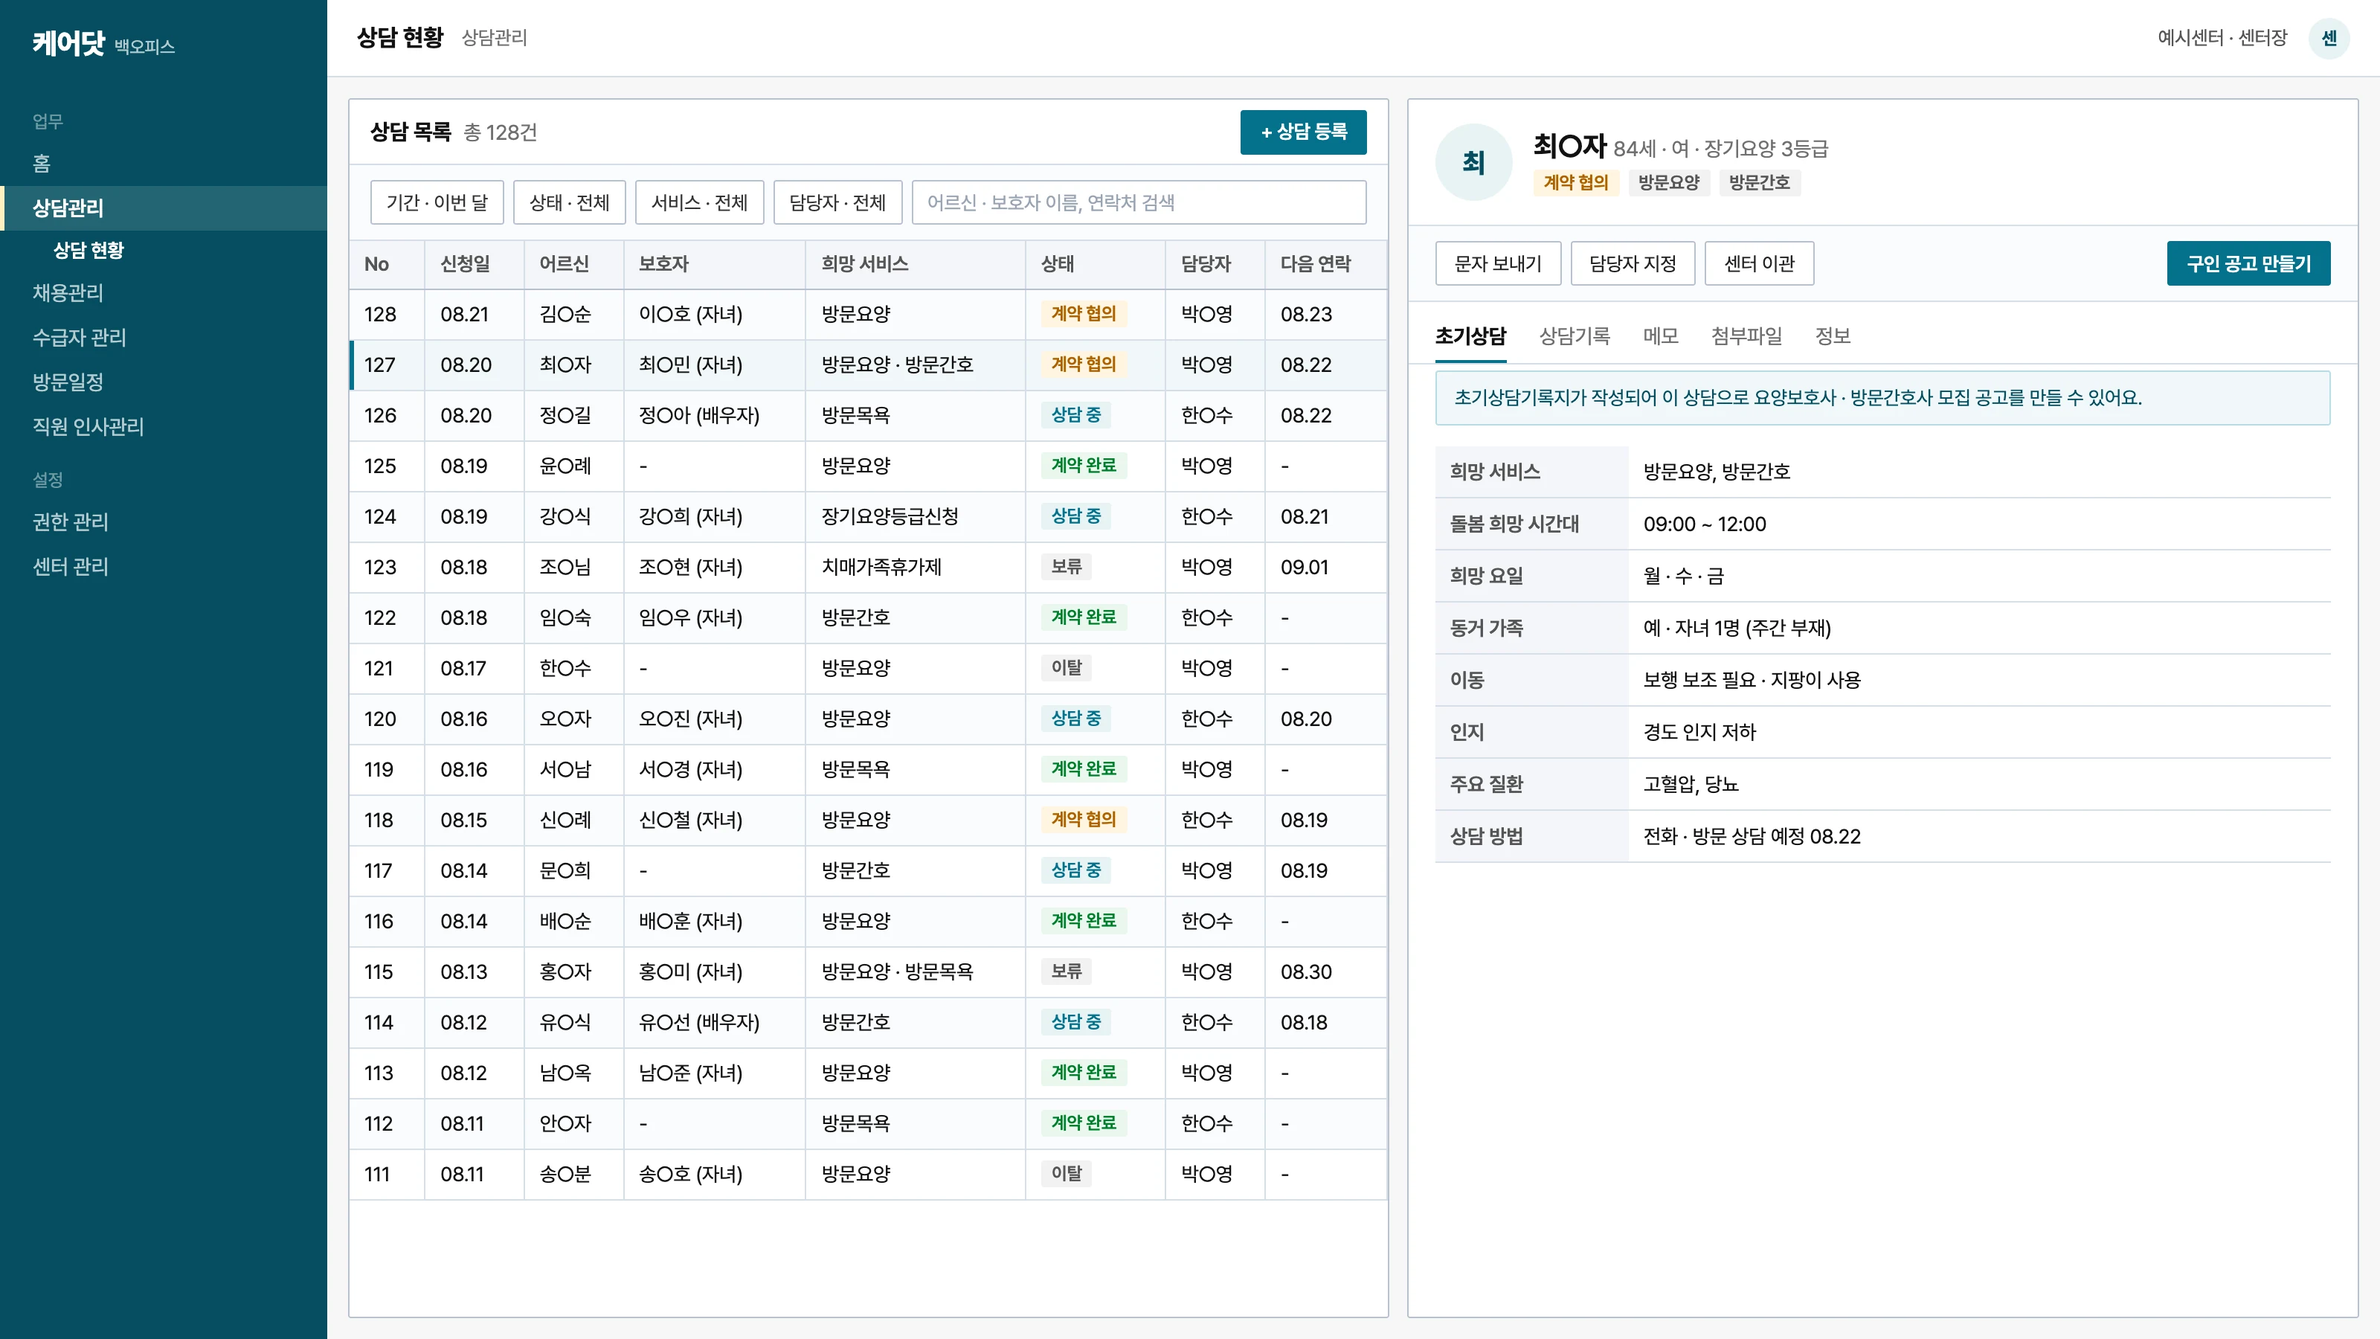
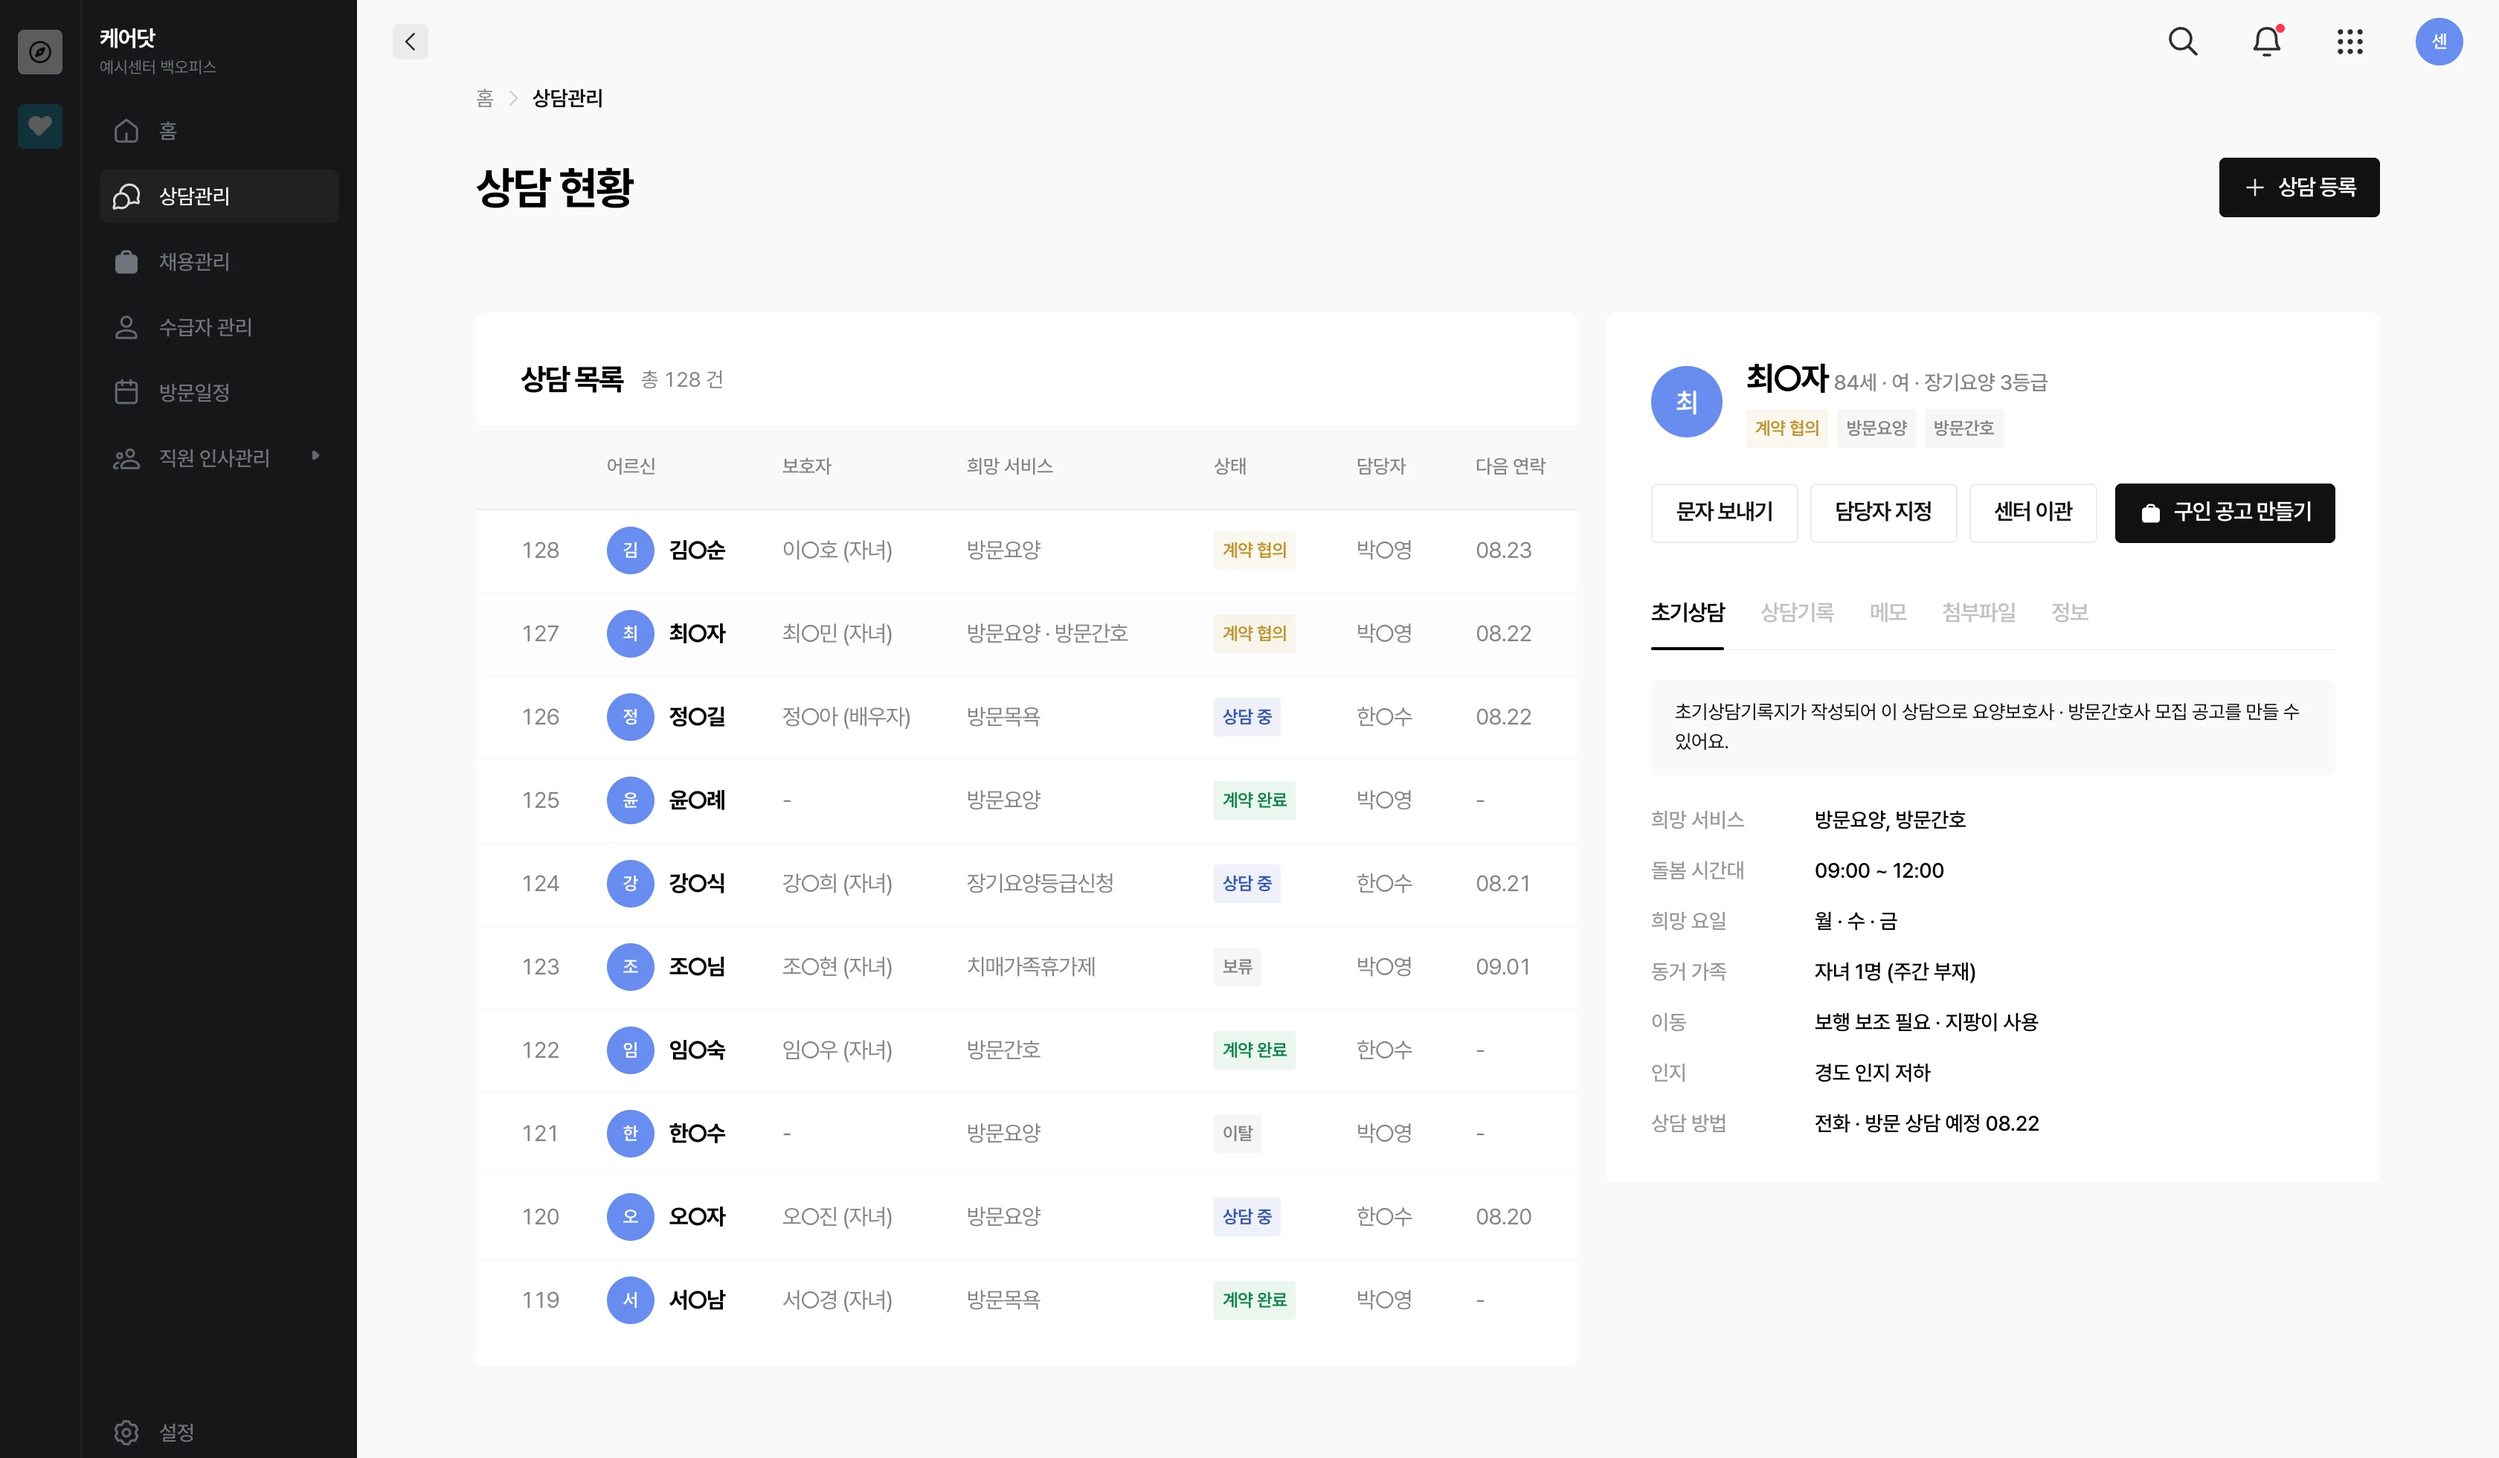
청담원 — 재현 화면 두 장을 404 디자인 시스템(워크스페이스 셸 · 표 · 배지 · 요약 카드)으로 다시 그림

diff --git a/resources/data/projects.php b/resources/data/projects.php
@@ -619,7 +619,7 @@ return [
                             ['임직원 라운지', '공지 · 자료', ['공지·일정', '자료실', '영상 교육'], '본사 공지와 교육 자료'],
                         ]]],
                         ['label' => null, 'text' => '메뉴 순서는 일의 순서를 따랐습니다. 상담에서 계약이 되면 그 어르신을 돌볼 요양보호사를 뽑아야 해서, 상담관리 바로 아래에 채용관리를 두고 상담 상세에서 바로 구인 공고를 만들 수 있게 했습니다. 같은 내용을 적는 곳이 두 군데면 현업이 매번 어디에 적어야 하는지 고르게 되어, 수급자 서류는 따로 메뉴를 두지 않고 수급자 상세의 탭으로 모았습니다.'],
-                        ['image' => ['src' => 'images/projects/cdw-consult-screen.webp', 'width' => 3200, 'height' => 1800, 'alt' => '상담 현황 재현 화면. 왼쪽은 신청일 · 어르신 · 보호자 · 희망 서비스 · 상태 · 담당자 · 다음 연락 열의 상담 목록, 오른쪽은 선택한 상담의 상세. 상세 위에 문자 보내기 · 담당자 지정 · 센터 이관 버튼과 구인 공고 만들기 버튼, 아래에 초기상담기록지(희망 서비스, 돌봄 희망 시간대, 희망 요일 등)가 있다. 이름은 가려진 예시 데이터.', 'caption' => '상담 목록과 상세를 한 화면에서, 상세에서 바로 구인 공고로 (재현 화면 · 예시 데이터)']],
+                        ['image' => ['src' => 'images/projects/cdw-consult-screen.webp', 'width' => 3360, 'height' => 1960, 'alt' => '상담 현황 재현 화면. 왼쪽은 신청일 · 어르신 · 보호자 · 희망 서비스 · 상태 · 담당자 · 다음 연락 열의 상담 목록, 오른쪽은 선택한 상담의 상세. 상세 위에 문자 보내기 · 담당자 지정 · 센터 이관 버튼과 구인 공고 만들기 버튼, 아래에 초기상담기록지(희망 서비스, 돌봄 희망 시간대, 희망 요일 등)가 있다. 이름은 가려진 예시 데이터.', 'caption' => '상담 목록과 상세를 한 화면에서, 상세에서 바로 구인 공고로 (재현 화면 · 예시 데이터)']],
                         ['label' => null, 'text' => '같은 백오피스라도 쓰는 사람마다 필요한 화면이 달랐습니다. 요양보호사와 간호사 같은 현장직에게는 내 일정과 내 프로필만 보이게 했고, 센터 개설을 준비하는 예비 센터장에게는 개설 진행과 서류함만 보이게 했습니다. 시니어와 보호자도 쓰는 서비스라, 화면의 문장은 쉬운 말로 쓰는 것을 기준으로 삼았습니다.'],
                         ['label' => null, 'text' => '계정과 권한도 의사결정 기록으로 정했습니다. 논의는 메신저에서 하고, 결정은 배경과 근거, 검토한 대안까지 위키에 한 장씩 적었습니다. 권한은 본사 관리자, 센터장, 사회복지사와 케어매니저, 직원의 4단계로 나눴고, 한 사람이 여러 역할을 가져도 계정은 하나로 두었습니다. 구직자가 채용되면 새 계정을 만들지 않고 같은 계정의 역할만 직원으로 올리게 했고, 센터장 한 명이 여러 센터를 맡을 수 있게 했습니다.'],
                         ['label' => null, 'text' => '메뉴와 화면 접근은 같은 기준으로 판정하게 했습니다. 홈 화면을 좌측 메뉴 틀로 옮기던 중 권한 테스트에서 센터장에게 본사 전용 메뉴가 보이는 것이 잡혔습니다. 누르면 막히지만 갈 수 없는 곳이 메뉴에 남아 있던 것이라, 메뉴도 화면과 같은 판정을 따르게 하고 이 경우를 테스트로 고정했습니다. 센터 계정은 어느 화면에서든 자기 센터만 보는 것을 원칙으로 두었습니다.'],
@@ -644,7 +644,7 @@ return [
                         ['label' => null, 'text' => '공단 연동은 8월 중순부터 백엔드 개발자와 역할을 나눠 붙였습니다. API 연결은 백엔드 개발자가, 인증서 등록과 공단 데이터를 보여 주는 화면은 제가 맡았습니다. 공단 장기요양과 희망이음 API 12종이 연결돼, 조회뿐 아니라 직원 등록, 자격 등록, 입사 · 퇴사 신고까지 희망이음으로 실제 신고되는 것을 확인했습니다.'],
                         ['label' => null, 'text' => '화면은 공단 응답과 실제 공단 화면을 기준으로 다시 짰습니다. 처음 연동했을 때는 응답에 오는 계약 내용과 계약자 정보를 버리고 있어서, 공단 응답에 맞춰 수급자 데이터 구조를 다시 정렬하고 수급자 상세도 공단 화면처럼 케어플랜, 담당 직원, 급여제공계획서 탭으로 넓혔습니다. 공단은 코드표를 따로 주지 않았습니다. 코드 뜻을 추측해 붙이면 틀린 뜻이 그대로 굳기 때문에, 같은 응답에 한글명이 함께 오는 조회를 불러 코드와 이름의 짝을 실데이터로 확인했습니다. 조회마다 요금이 붙어서 이 확인은 사람이 필요할 때만 돌게 했습니다.'],
                         ['label' => null, 'text' => '연동에서 부딪힌 문제는 화면 밖에도 있었습니다. 신고 요청이 성공으로 돌아왔는데 실제로는 아무 일도 일어나지 않은 경우가 있어, 성공 여부는 응답의 성공 표시가 아니라 안쪽의 처리 메시지로 판단하게 했습니다. 조회가 0건으로 오면 센터 직원이 전부 사라진 것처럼 보일 수 있어 0건 응답은 삭제로 읽지 않게 막았고, 응답에 섞여 오는 주민등록번호는 저장하기 전에 지웠습니다. 등록과 신고가 다른 일이라는 점도 화면에 드러냈습니다. 공단에 신고되지 않은 직원은 급여 산정에 잡히지 않아서, 목록에 공단 미신고 표시를 붙였습니다.'],
-                        ['image' => ['src' => 'images/projects/cdw-staff-screen.webp', 'width' => 3200, 'height' => 1800, 'alt' => '직원 정보 관리 재현 화면. 위에 공단 · 희망이음 데이터를 가져오는 중이라는 띠, 재직 · 공단 신고 완료 · 공단 미신고 · 자격 만료 임박 요약 카드, 아래 직원 목록의 공단 신고 열에 신고 완료와 공단 미신고 표시가 있다. 이름은 가려진 예시 데이터.', 'caption' => '등록과 신고를 나눠 보여 주는 직원 목록 (재현 화면 · 예시 데이터)']],
+                        ['image' => ['src' => 'images/projects/cdw-staff-screen.webp', 'width' => 3360, 'height' => 2120, 'alt' => '직원 정보 관리 재현 화면. 위에 공단 · 희망이음 데이터를 가져오는 중이라는 띠, 재직 · 공단 신고 완료 · 공단 미신고 · 자격 만료 임박 요약 카드, 아래 직원 목록의 공단 신고 열에 신고 완료와 공단 미신고 표시가 있다. 이름은 가려진 예시 데이터.', 'caption' => '등록과 신고를 나눠 보여 주는 직원 목록 (재현 화면 · 예시 데이터)']],
                         ['label' => null, 'text' => '청구는 방향을 고쳤습니다. 6월에는 청구까지 공단에 대신 신고해 주는 것을 목표로 잡았지만, 9월 초 공단 포털의 청구 화면과 처리기준을 직접 확인해 보니 재가기관의 청구 자료는 RFID 태그 기록을 바탕으로 공단이 자동으로 만들고 있었습니다. 케어닷이 청구를 대신 보낼 이유가 없었고, 공단에 쓰는 기능은 잘못 신고할 위험만 더했습니다. 그래서 공단에는 쓰지 않고, 센터가 청구하기 전과 청구한 뒤에 집중하기로 했습니다.'],
                         ['label' => null, 'text' => '청구 전에는 방문 일정과 태그 기록을 월 단위로 대조해 태그 누락, 시간 불일치, 월 한도 초과, 방문간호 지시서 만료를 미리 잡게 설계했습니다. 자동청구율이 75% 이상이면 공단 지급이 15일, 미만이면 30일 안에 이뤄져서, 청구 전에 태그 누락을 줄이는 것이 곧 센터의 자금 흐름이었습니다. 청구 뒤에는 접수, 심사, 지급 결과를 받아 삭감 사유를 다음 청구 전 검증 규칙으로 돌려보내는 구조로 잡았습니다.'],
                         ['label' => null, 'text' => '결과 조회는 새 스크래핑 개발과 호출 비용이 드는 일이었습니다. 붙이지 않으면 접수 실패를 2주 뒤에야 알고 삭감 원인을 건별로 볼 수 없다는 점과 개발 · 호출 비용을 나란히 놓고 결정을 올렸습니다. 벤더가 지원하는지 확인되기 전에도 쓸 수 있게 결과 칸은 먼저 손으로 입력할 수 있게 두고, 연동이 붙으면 그 칸을 자동으로 채우도록 설계했습니다. 그러면 연동이 붙어도 화면을 다시 만들 필요가 없습니다.'],
